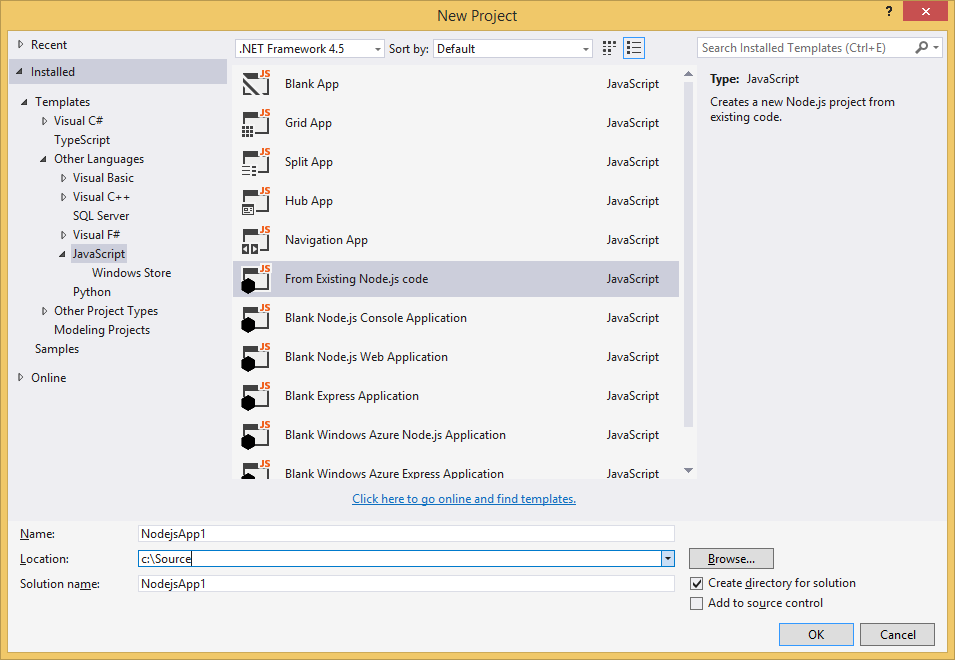
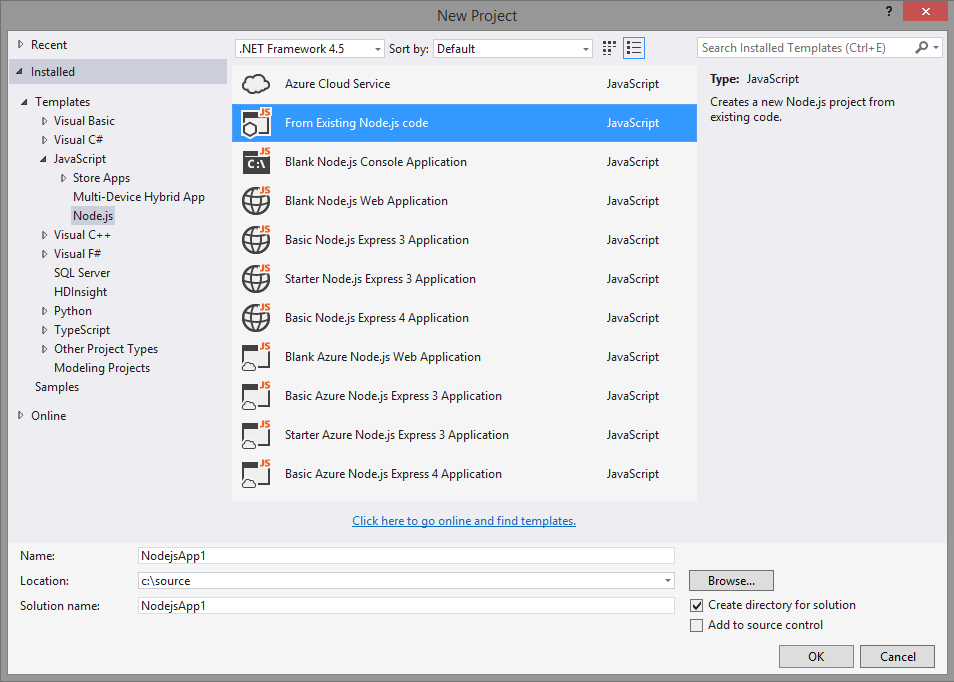
#1623 Project doc improvements #1628 Projects Documentation > Create Project from Existing Files Image Wrong #1634 PreAndPostBuildActions documentation updates

diff --git a/Nodejs/Docs/User/Projects.md b/Nodejs/Docs/User/Projects.md
@@ -9,15 +9,17 @@ Node.js Tools allows you to create projects using the Visual Studio project syst
 
 Like all Visual Studio languages, Node.js project files are referenced from a solution. Solutions can contain multiple projects, including those of different types, and projects can include references to each other.
 
+By default, Node.js Tools shows all files. This means that files in the directory of the project are shown regardless of being in the .njsproj project file. They are shown as 'greyed out' but can be edited from within Node.js Tools. If you wish to add the item to the project, right click on the item in Solution Explorer and select 'Include in Project'.
+
 Projects include a startup file, which will run when you start with debugging (F5) or execute with you run without (Shift-F5). This file is bolded in Solution Explorer. You can change the startup file by right-clicking and selecting "Set as Startup File" on the file you want to start with.
 ### Creating a project
-To create a new Node.js project you use the normal File->New Project command from Visual Studio.  The Node.js project types are listed under the "JavaScript" language which will either be under "Installed Templates" or "Installed Templates\Other Languages" depending upon your settings.
+To create a new Node.js project you use the normal File->New Project command from Visual Studio. The Node.js project types are listed under the "JavaScript" and "TypeScript" language which will either be under "Installed Templates" or "Installed Templates\Other Languages" depending upon your settings.
 
 --)
 
 Project Types
 -------------
-Node.js Tools for Visual Studio includes five starter projects covering the most common scenarios.  The primary differences in these starter projects are the files they include and the project settings.  If you plan to publish to Azure we recommend starting with an Azure variety template.  Don't worry just because you are using an Azure project type doesn't mean you must do everything in Azure.  Also don't worry if you've started with the wrong project type, other than adding azure publishing its easy to change project settings without starting over.  For those of you working with existing code there is also the from existing code wizard.
+Node.js Tools for Visual Studio includes starter projects covering the most common scenarios. The primary differences in these starter projects are the files they include and the project settings. If you plan to publish to Azure we recommend starting with an Azure variety template. Don't worry just because you are using an Azure project type doesn't mean you must do everything in Azure. Also don't worry if you've started with the wrong project type as it is easy to change project settings without starting over. For those of you working with existing code there is also the from existing code wizard. If you wish to convert to an Azure project please view the documentation for [wiki:"converting to an Azure project type" AzureWebSiteWebDeploy#converting-to-an-azure-project-type].
 
 ### Blank Node.js Console Application
 
@@ -25,25 +27,33 @@ This is a basic application that is a good starting point for any non-web Node.j
 
 ### Blank Node.js Web Application
 
-This project will run and debug in the web browser.  This is a good starting point for any web based Node.js application.  After creation, you can add new modules and packages, edit files with intellisense, and interactively debug code.
+This project will run and debug in the web browser. This is a good starting point for any web based Node.js application. After creation, you can add new modules and packages, edit files with intellisense, and interactively debug code.
 
 ### Blank Node.js Express Application
 
-This project is based on the standard Node.js Express template. This project will run and debug in the web browser.  After creation you can add new apps to the project, add new packages and modules, edit page templates, and interactively debug code.
+This project is based on the standard Node.js Express template. This project will run and debug in the web browser. After creation you can add new apps to the project, add new packages and modules, edit page templates, and interactively debug code.
 
 ### Blank Azure Node.js Application
 
 This is the basic web application pre-configured to run in Windows Azure.
 
-### Blank Azure Node.js Express Application
+### Basic Azure Node.js Express 3 Application
 
-This is the Blank Node.js Express Application pre-configured to run in Windows Azure.
+This is a basic Node.js Express 3 Application pre-configured to run in Windows Azure.
+
+### Starter Azure Node.js Express 3 Application
+
+This is a starter Node.js Express 3 Application pre-configured to run in Windows Azure.
+
+### Basic Azure Node.js Express 4 Application
+
+This is a basic Node.js Express 4 Application pre-configured to run in Windows Azure.
 
 <p id="NewProjectFromExisting" />
 Create Project from Existing Files
 ----------------------------------
 
-If you already have existing Node.js code, you can easily start working with it NTVS.  There is no need to copy the code around. To get started, open up File->New Project and navigate to "From Existing Node.js Code":
+If you already have existing Node.js code, you can easily start working with it NTVS. There is no need to copy the code around. To get started, open up File->New Project and navigate to "From Existing Node.js Code":
 
 ![New Project window](Images/ProjectFromExisting1.png)
 
@@ -51,7 +61,7 @@ This will display the following wizard, where you can choose the path containing
 
 ![New Project from Existing Code Wizard step one](Images/ProjectFromExisting2.png)
 
-On the next page, you can choose the file to run when you press F5. (Only files in the root of the folder tree are shown, so if the one you want is not there, don't choose anything for now and set it later.)  There is also the option to exclude the node\_modules folder.  Excluding the node\_modules folder from the project system is the preferred method.
+On the next page, you can choose the file to run when you press F5. (Only files in the root of the folder tree are shown, so if the one you want is not there, don't choose anything for now and set it later.)  There is also the option to exclude the node\_modules folder. Excluding the node\_modules folder from the project system is the preferred method.
 
 ![New Project from Existing Code Wizard step two](Images/ProjectFromExisting3.png)
 
@@ -60,6 +70,29 @@ On the final page, you can select the location to save the project file. Choosin
 ![New Project from Existing Code Wizard step three](Images/ProjectFromExisting4.png)
 
 Click Finish and your project will be created. If you want to move the .njsproj file somewhere else at this point, select it in Solution Explorer and choose 'File->Save As'. Moving the .njsproj this way will update the file references, so we don't have to copy any code files around, but adds, deletes, and renames will affect the original files.
+
+Editing Client Side JavaScript from Node.js
+--------------------------------------------
+Visual Studio contains two separate editors for .js files. By default, when you open a .js file from a Node.js Project, we will launch using the Node.js Editor. If you wish to open the file with the client side JavaScript editor, change the Build Action of the item from 'Compile' to 'Content'. Changing the action type to content will also stop us from analysing your client side code as server side Node.js code. For stopping analysis on directories, please view the section on [wiki:"ignoring directories for analysis" Projects#ignoring-directories-for-analysis].
+
+Ignoring Directories for Analysis
+---------------------------------
+It may be useful to ignore certain directories, such as client side JavaScript, from analysis. There are many reasons to do this but the biggest two are:
+* the particular directory is large and takes a great deal of time to analyse.
+* The directory contains client side code that doesn't need to be analysed.
+
+There is a property in the .njsproj file that can be used to ignore directories. The following code can be added to the project file under a PropertyGroup:
+
+```xml
+<PropertyGroup>
+   <!-- Specifies the directories which are ignored. Any paths which contain these directory names
+      will be ignored. The directory name must completely match and no wild cards are allowed
+   -->
+   <AnalysisIgnoredDirectories>bower_components;dir_not_included</AnalysisIgnoredDirectories>
+</PropertyGroup>
+```
+
+This property takes precedence over other settings. This includes whether you included the file in your project or not. If you specify a directory here as ignore it will not be analysed.
 
 Linked Files
 ------------

diff --git a/Nodejs/Docs/User/PreAndPostBuildActions.md b/Nodejs/Docs/User/PreAndPostBuildActions.md
@@ -75,7 +75,7 @@ the code that will result in a PostBuildEvent.  This code needs to be inserted u
 ```
 <PropertyGroup>
   <PostBuildEvent>
-      grunt
+      grunt --no-color
   </PostBuildEvent>
 </PropertyGroup>
 ```
